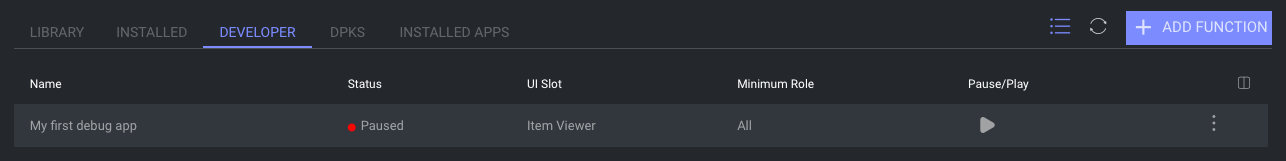
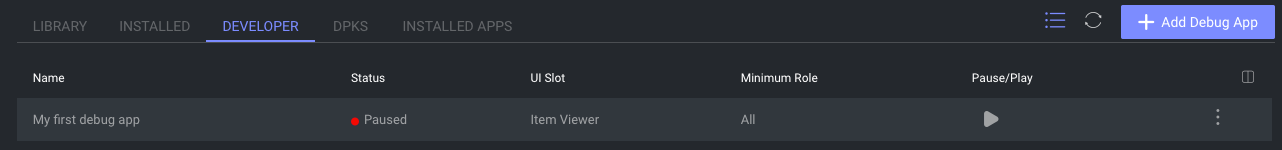
updated debug app tutorial pictures

diff --git a/tutorials/applications/debug_spa/chapter.md b/tutorials/applications/debug_spa/chapter.md
@@ -24,12 +24,11 @@ _- Used for applications that have panels (UI)_.
 
 ### How to add a debug app in the Dataloop Platform
 
-- On the left sidebar menu, go to **Application Hub** under the **Application (FAAS)** section, and open the **
-  Developer** tab.
+- On the left sidebar menu, go to **Application Hub** under the **Application (FAAS)** section, and open the **Developer** tab.
   ![img.png](../../../assets/apps/img.png)
-- Click the **Add Function** button.
+- Click the **Add Debug App** button.
 - Fill out the name of the app, choose a main slot and add your application's URL address
-    - (For example: https://local.dataloop.ai:3000)
+    - (For example: https://local.dataloop.ai:3000)<br />
       ![img_1.png](../../../assets/apps/img_1.png)
 - Press the **Create** button, and wallah! You have a debug app in the Platform.
   ![img_2.png](../../../assets/apps/img_2.png)
@@ -119,8 +118,8 @@ _This following item viewer example supports images only._
         item = await dl.items.get()
         const stream = await dl.items.stream(item.stream)
         const img = new Image(
-            item.metadata?.system.width,
-            item.metadata?.system.height
+                item.metadata?.system.width,
+                item.metadata?.system.height
         )
 
         console.log("@@@@@", JSON.stringify(stream))
